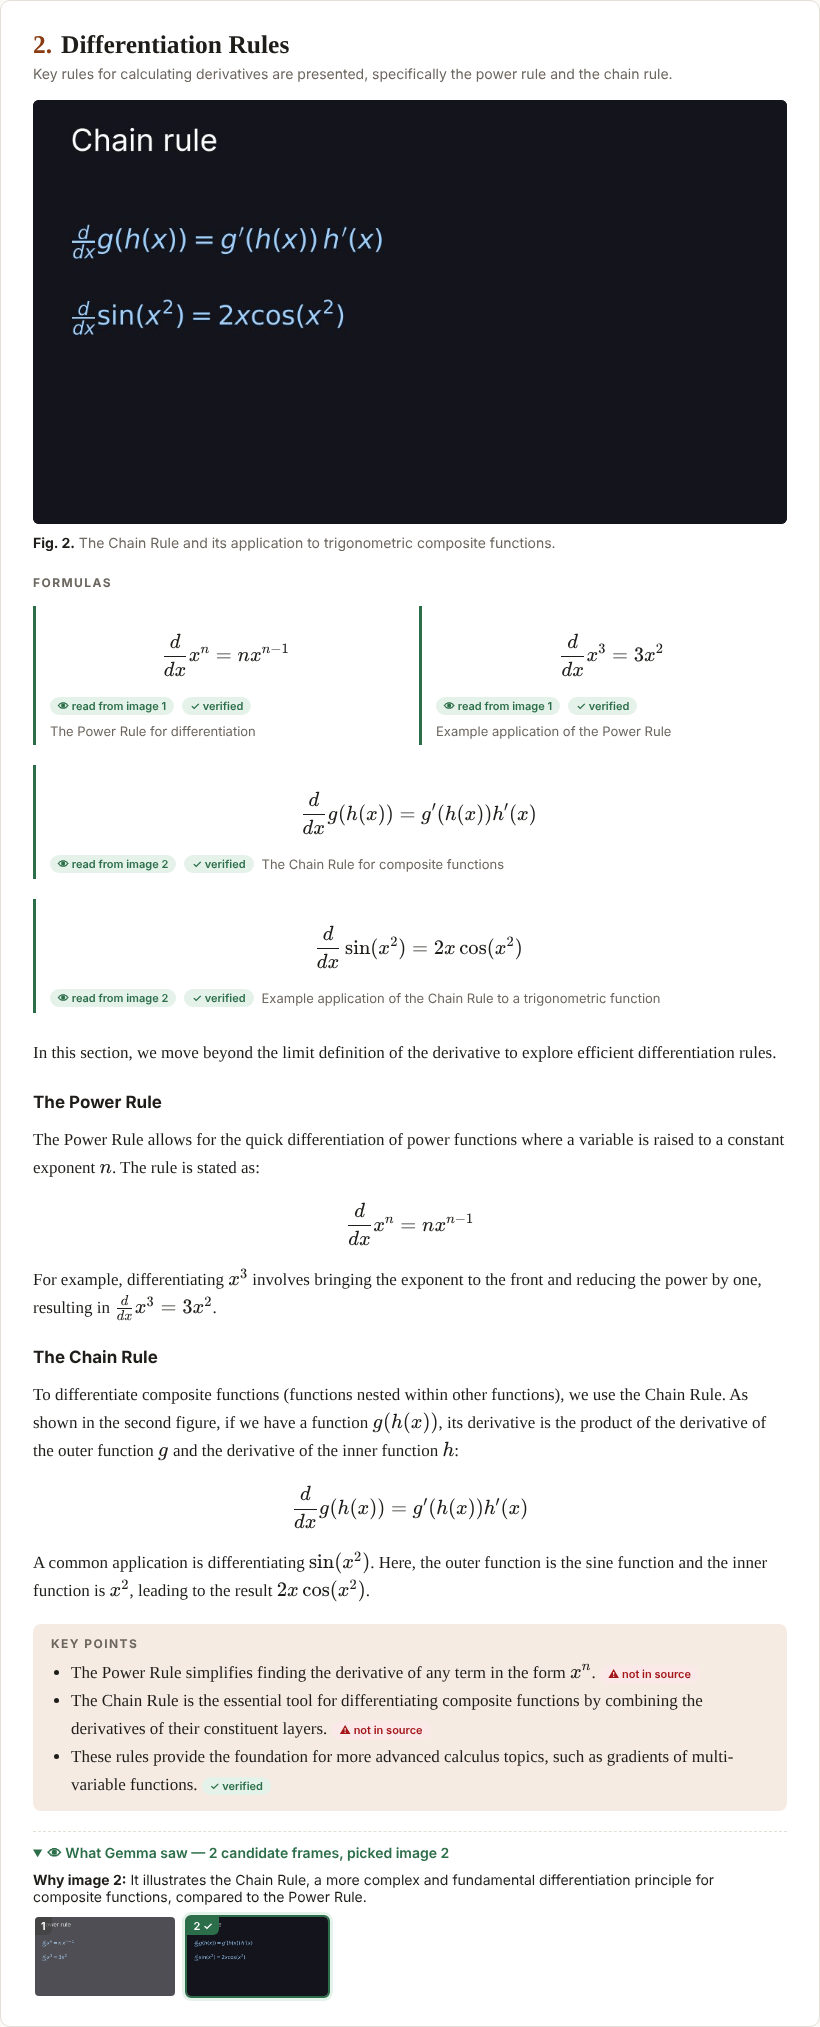
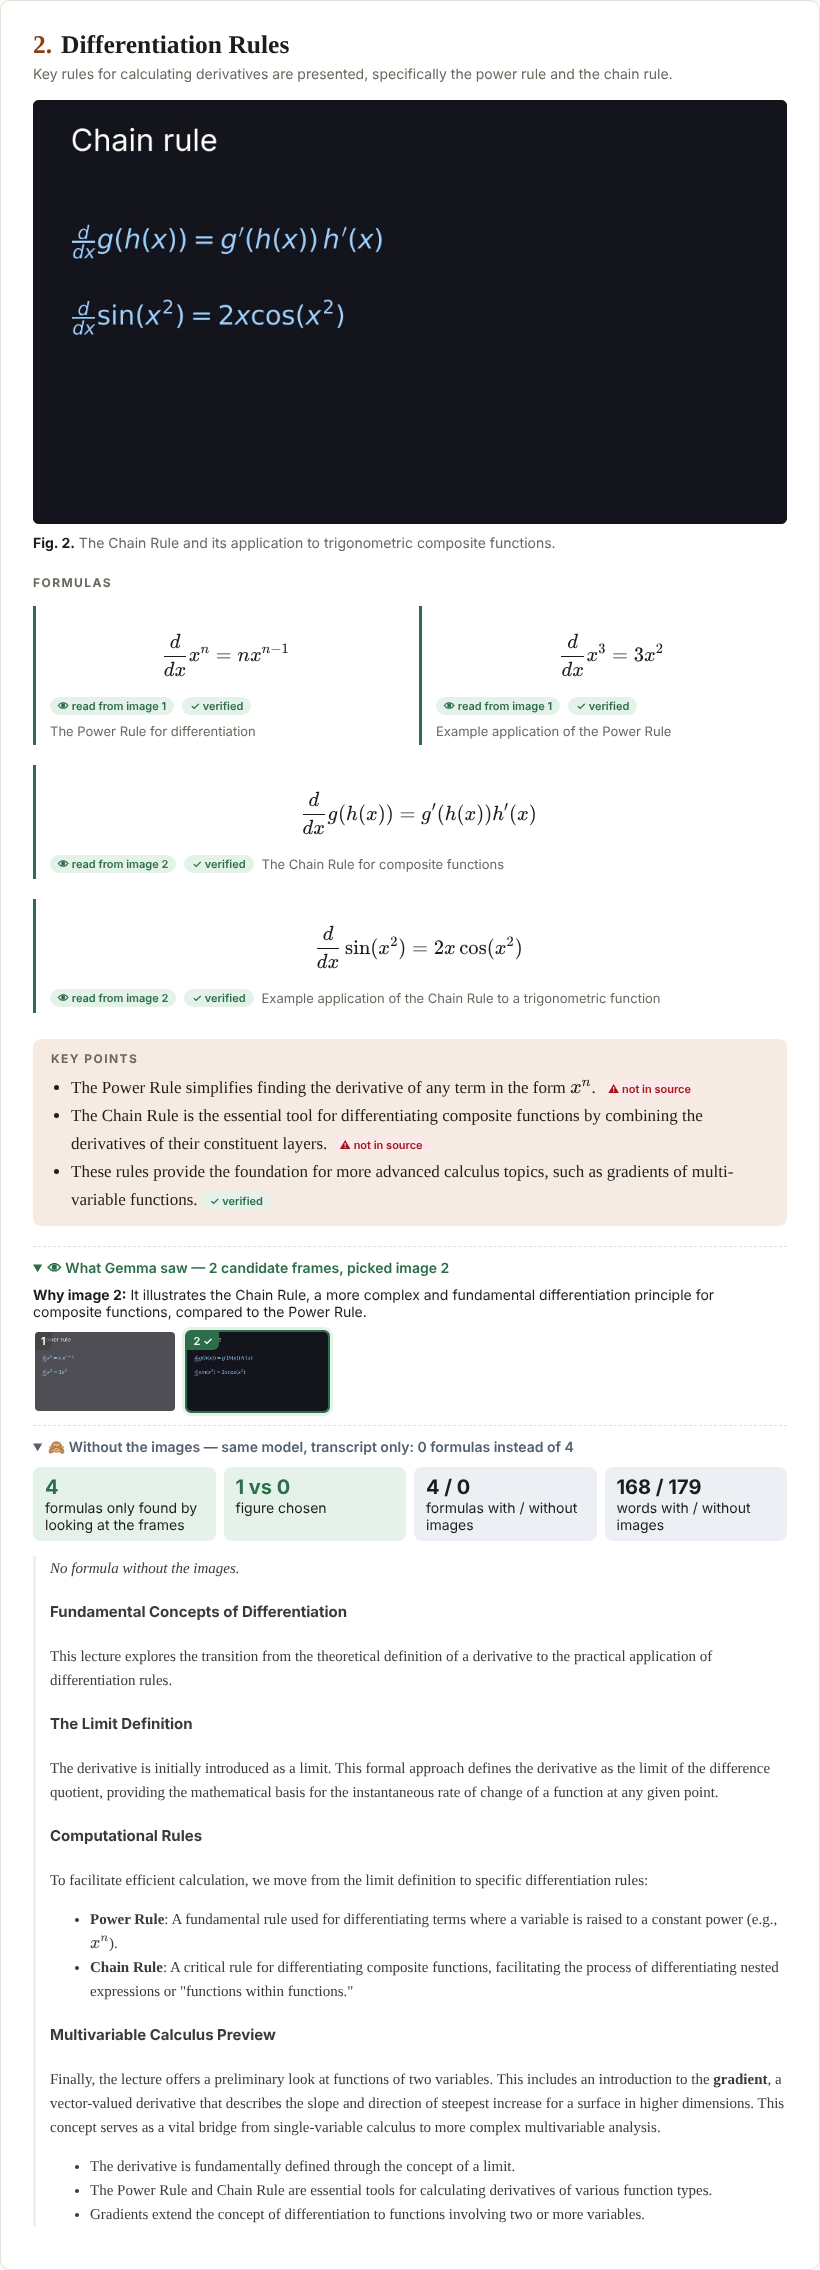
README: new example screenshot with CoVe badges and the ablation panel
Claude-Session: https://claude.ai/code/session_013Qeb4SjKBHmzUCqoyzMsDK

diff --git a/README.md b/README.md
@@ -181,7 +181,7 @@ chose, the formulas it transcribed from the images (👁 source badge) and re-ch
 (✓ badge), the notes, the key points and the open "What Gemma saw" panel.
 
 <p align="center"><img src="docs/screenshot.png" width="640" alt="A Lecturify section: the figure Gemma chose, formulas read from the slides with source and verification badges, notes, key points and the 'What Gemma saw' panel"></p>
-<p align="center"><sub>Real output (screenshots mode, 4 slides): formulas transcribed from the images by Gemma 4, each re-checked by Chain-of-Verification.</sub></p>
+<p align="center"><sub>Real output (screenshots mode, 4 slides): the figure Gemma chose, formulas transcribed from the slides (👁) and re-checked by Chain-of-Verification (✓), "What Gemma saw", and the ablation panel: the same model without the images finds 0 formulas instead of 4.</sub></p>
 
 ## License
 
